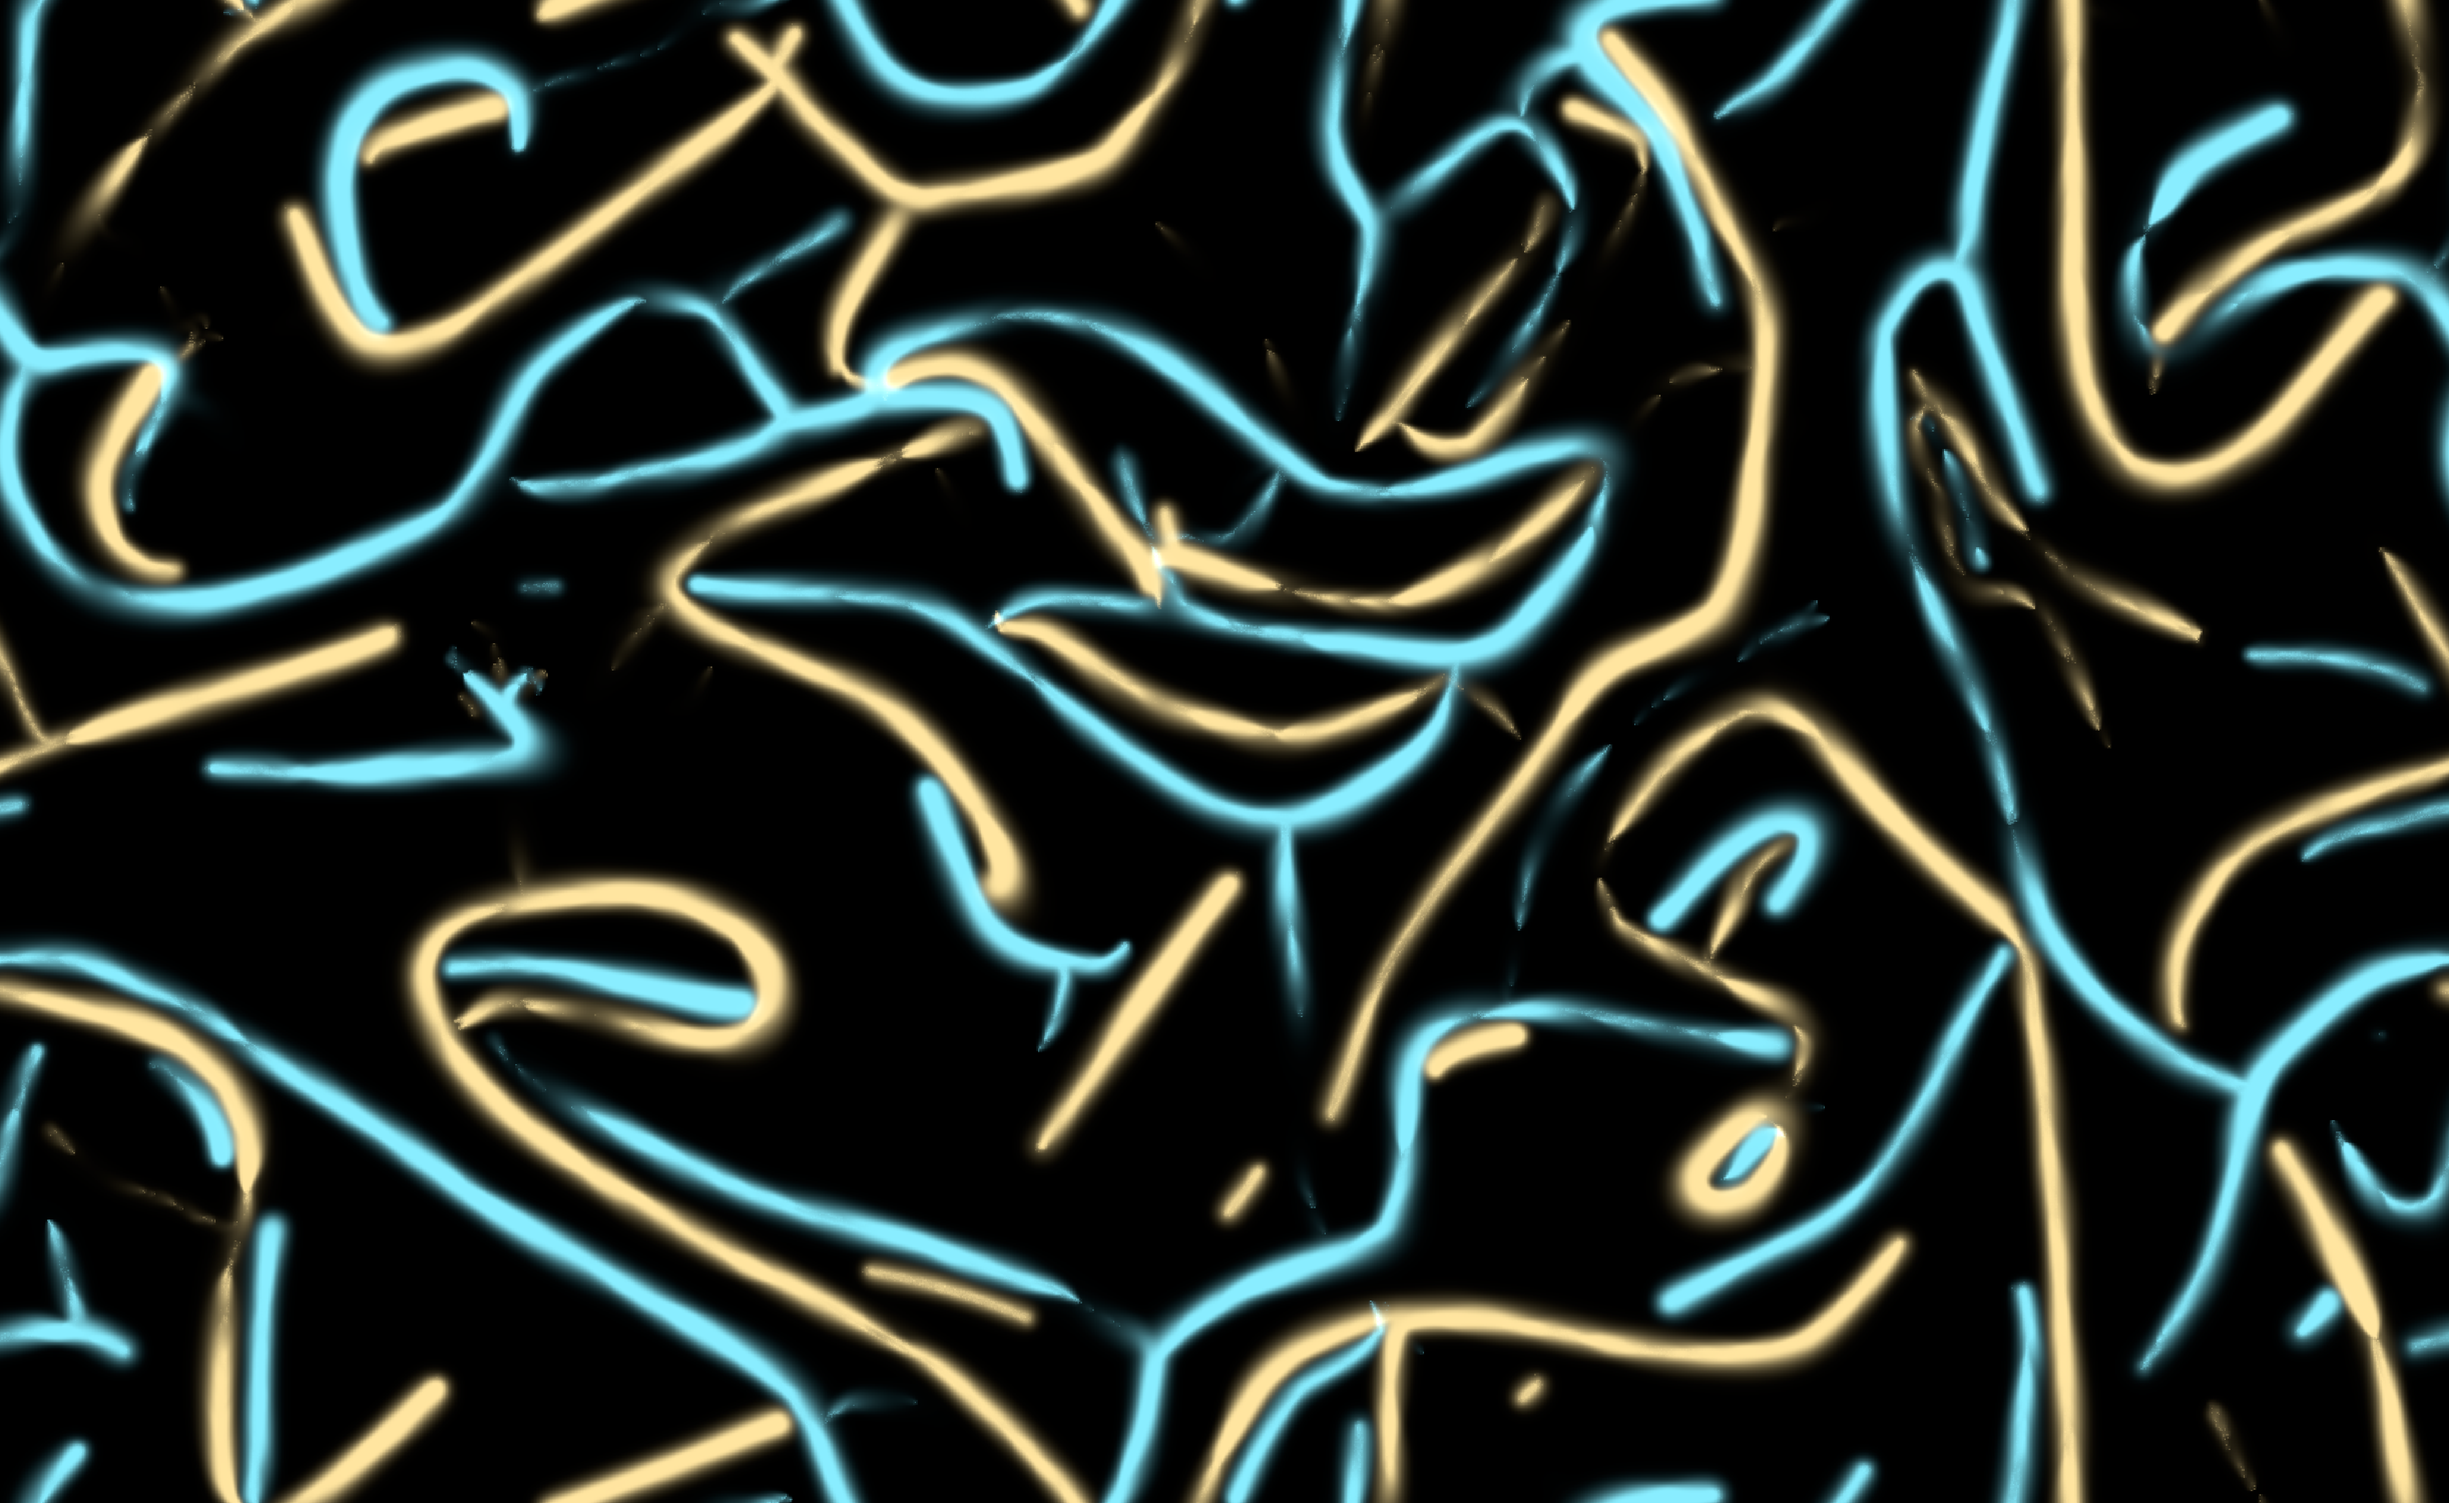
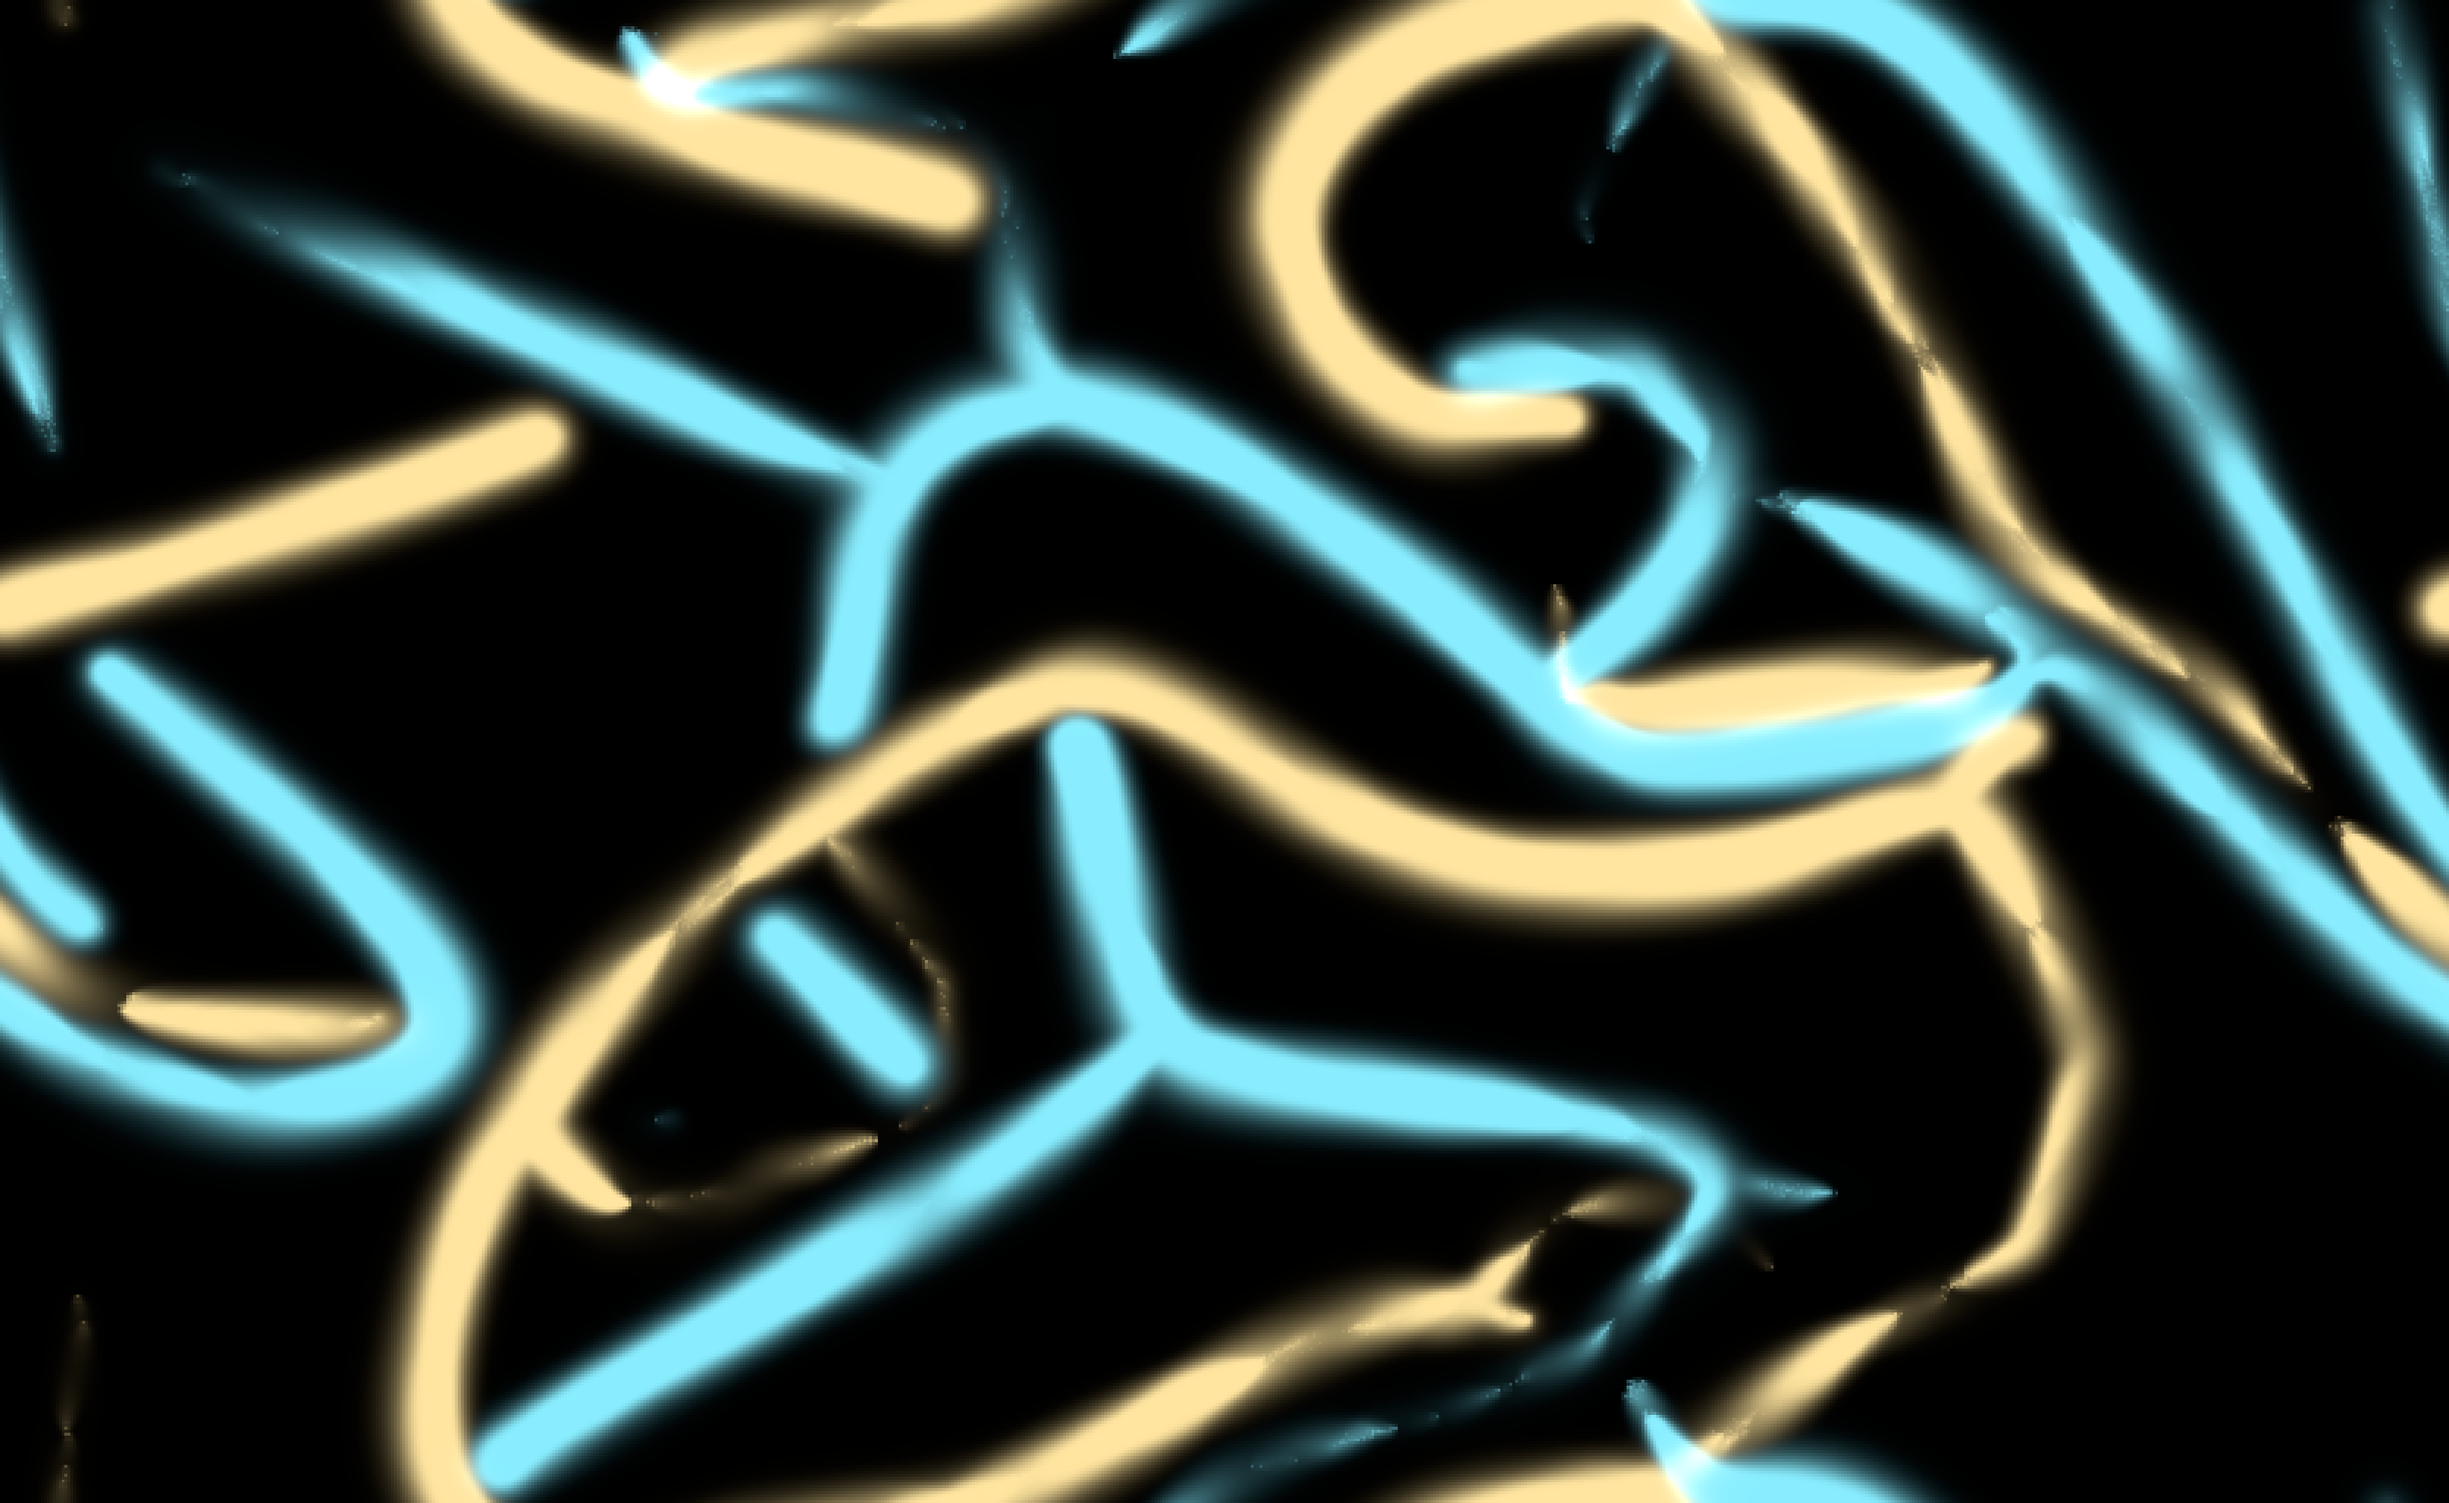
docs: recapture physarum-gpu on a 512-high trail (2.6 MB -> 0.9 MB)
Coarser trail, same window and million agents; real native-window capture
through the docs runner.

diff --git a/public/docs/alife_examples.md b/public/docs/alife_examples.md
@@ -1084,7 +1084,7 @@ animateEvolution(
 
 ### A million agents on the GPU
 
-The same rule runs on the GPU as `ShaderPhysarumSystem`: a million agents on a trail 1024 pixels high, each
+The same rule runs on the GPU as `ShaderPhysarumSystem`: a million agents on a trail 512 pixels high, each
 one a single vertex-shader invocation per frame that senses, turns, steps and deposits. The defaults are
 the `PhysarumParams` defaults above. The trail is a [`TrailField`](reference/alife.md#alife-trail-kt-trailfield), a stigmergy
 field you can use on its own: four channels, each with its own half-life, plus diffusion and wind. Any
@@ -1092,10 +1092,10 @@ module can deposit into it, and any shader can read it with `#include "trail/sam
 two species, one per channel. Each follows its own trail and avoids the other's:
 
 ```diffstatic_runner {data-lang=kotlin screenshot="assets/alife_examples/physarum-gpu.png" alt="two interleaved transport networks in a native render window, one amber and one cyan, made of rounded filaments that avoid each other, covering the whole window" wait="12" timeout="120" capture="native-window" native-wait-frames="4" trim-native=true graphics-context=true embed=true name="alife-physarum-gpu"}
-// 1024 pixels high and as wide as the window's shape needs, so the trail is not stretched
+// 512 pixels high and as wide as the window's shape needs, so the trail is not stretched
 var physarum = ShaderPhysarumSystem() {
-    height = 1024
-    width = 1024 * window.width / window.height
+    height = 512
+    width = 512 * window.width / window.height
     agentCount = 1_000_000
     speciesCount = 2
 }
